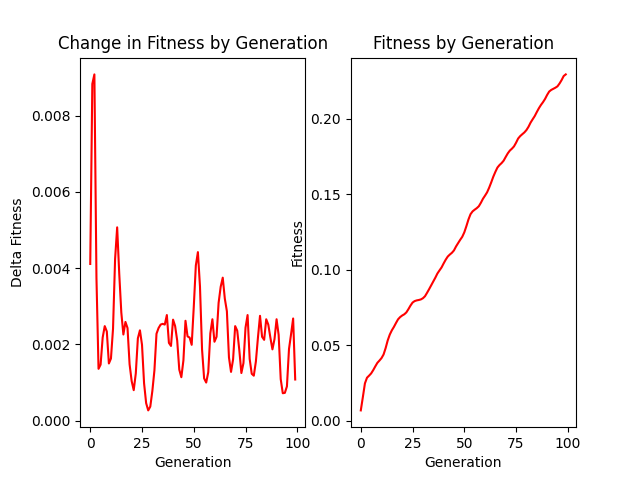
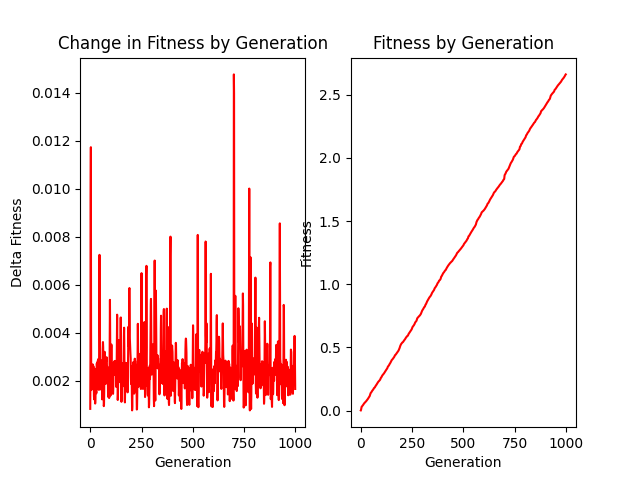
beginning OOP for epistasis

diff --git a/transfer-three.py b/transfer-three.py
@@ -1,0 +1,99 @@
+import numpy as np
+from matplotlib import pyplot as plt
+import random
+
+class PopulationGenome():
+    def __init__(self, population, polymorphic_sites, S_b, activated_proportion, mutation_prob, num_recombinations=None):
+        self.population = population
+        self.polymorphic_sites = polymorphic_sites
+        self.S_b = S_b
+        self.activated_proportion = activated_proportion
+        self.mutation_prob = mutation_prob
+        self.num_recombinations = int(mutation_prob * population) if num_recombinations is None else num_recombinations
+
+        self.genome = np.zeros((population, polymorphic_sites))
+
+        for i in range(population):
+            genome[i] = np.array([np.random.binomial(1, activated_proportion) for _ in range(polymorphic_sites)])
+
+        self.fitness_deltas = []
+        self.fitness_progression = []
+
+    def average_fitness(self):
+        return np.average(np.sum(self.genome, axis=1) * self.S_b)
+
+    def horizontal_gene_transfer(self):
+        # source retains allele, recipient receives allele from source
+        new_genome = self.genome.copy()
+        for _ in range(self.num_recombinations):
+            donor = random.choice((0, genome.shape[0] - 1))
+            locus = random.choice((0, genome.shape[1] - 1))
+            recipient = donor
+            while recipient == donor:
+                recipient = random.choice((0, genome.shape[0] - 1))
+            new_genome[recipient][locus] = new_genome[donor][locus]
+
+        return new_genome
+
+    def reproduce(self):
+        new_genome = np.zeros_like(self.genome)
+        weights = np.exp(np.sum(self.genome, axis=1))
+        weights /= np.sum(weights)
+        for i in range(new_genome.shape[0]):
+            new_genome[i] = self.genome[np.random.choice(self.genome.shape[0], p=weights)]
+            # weighted average with exponential of fitness
+        num_mutants = int(self.population * self.mutation_prob)
+        for _ in range(num_mutants):
+            print('Mutating')
+            new_polymorphic_site = np.zeros((self.population, 1))
+            new_polymorphic_site[np.random.choice(population)][0] = 1
+            new_genome = np.concatenate((new_genome, new_polymorphic_site), axis=1)
+
+        new_genome = np.delete(new_genome, np.argwhere(np.all(new_genome[..., :] == 0, axis=0)), axis=1)
+        # stop tracking loci that are no longer polymorphic
+
+        return new_genome
+
+    def reproductive_update(self):
+        genome = horizontal_gene_transfer(self.genome)
+        genome = reproduce(genome)
+        self.genome = genome
+
+    def simulate(self, generations, plot=True):
+        for gen in range(generations):
+            old_fitness = self.average_fitness()
+            self.reproductive_update()
+            new_fitness = self.average_fitness()
+            self.fitness_progression.append(new_fitness)
+            self.fitness_deltas.append(new_fitness - old_fitness)
+            print(f'Done with generation {gen}')
+
+        plt.figure(figsize=(60, 60))
+        fig, ax = plt.subplots(nrows=1, ncols=2)
+
+        ax[0].plot(range(generations), self.fitness_deltas, color='red')
+        ax[0].set_xlabel('Generation')
+        ax[0].set_ylabel('Delta Fitness')
+        ax[0].set_title('Change in Fitness by Generation')
+
+        ax[1].plot(range(generations), self.fitness_progression, color='red')
+        ax[1].set_xlabel('Generation')
+        ax[1].set_ylabel('Fitness')
+        ax[1].set_title('Fitness by Generation')
+
+        plt.savefig(f'{self.num_recombinations} recombinations.png')
+
+        print(self.genome, self.genome.shape)
+
+
+if __name__=='__main__':
+    print('Hello Transfer Three World')
+    #TODO modifying recombination rate with epistasis
+    #TODO environmental pressure?
+    #TODO cmoparison to meiotic theory
+    #TODO read paper from Good & Ferrare https://www.biorxiv.org/content/10.1101/2023.07.12.548717v1.full.pdf
+
+    num_recombinations_list = [0, 1, 10, 100, 1000]
+    for i in num_recombinations_list:
+        population = new PopulationGenome(10**4, 1, 0.01, 0.01, 10**-3, i)
+        population.simulate()

diff --git a/transfer-too.py b/transfer-too.py
@@ -50,9 +50,9 @@ if __name__ == '__main__':
     polymorphic_sites = 5
     U_b = 0.01
     activated_proportion = 0.01
-    generations = 100
+    generations = 1000
     mutation_prob = 10 ** -3
-    num_recombinations = 100 # on order of beneficial mutation rate
+    num_recombinations = 10 # on order of beneficial mutation rate
     ### PARAMS ###
 
     genome = np.zeros((population, polymorphic_sites))
